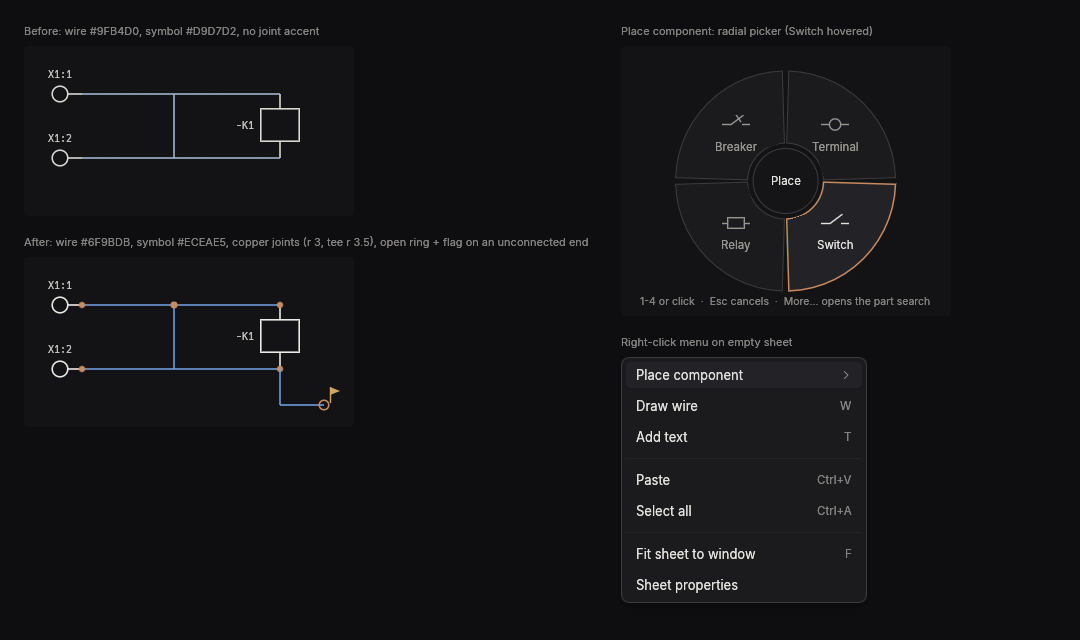
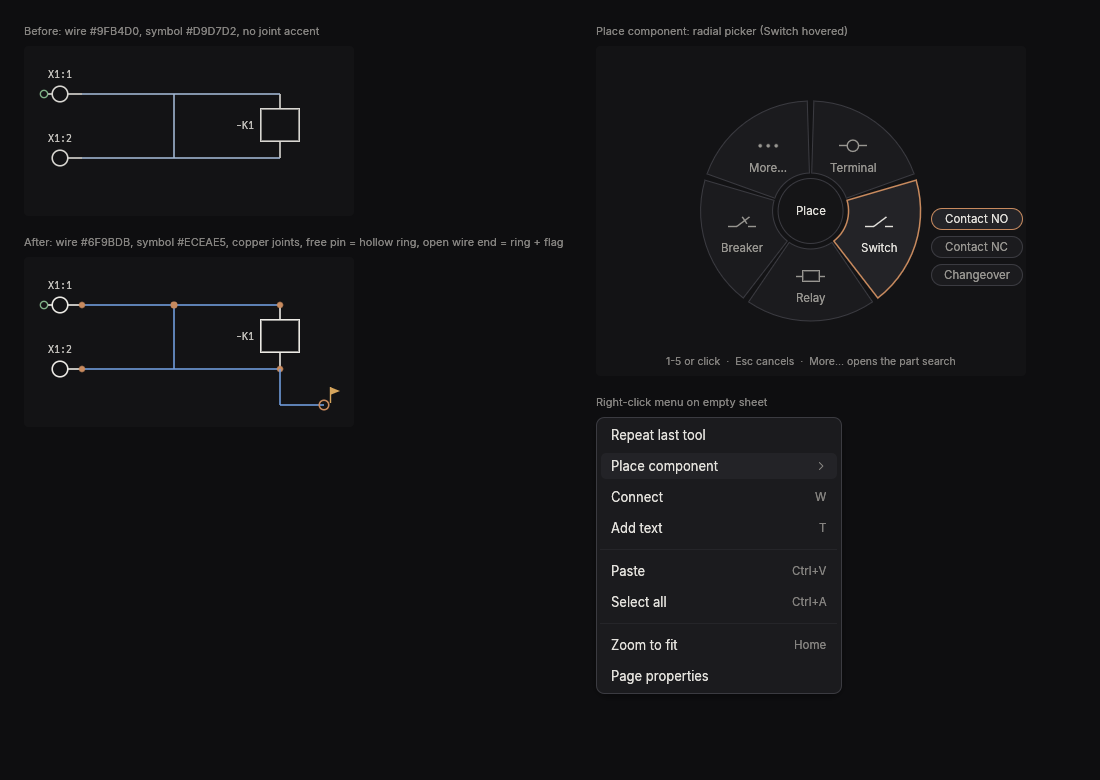
Design: canvas mock-up with five-wedge wheel, outer ring, pins and empty-canvas menu
Claude-Session: https://claude.ai/code/session_01UXbCeQW22y6tv74F2Xvbvm

diff --git a/docs/design/ui-guidelines.md b/docs/design/ui-guidelines.md
@@ -118,13 +118,19 @@ Links and wire ends (`docs/design/canvas-feedback.png`): wires are a mid
 saturated blue `#6F9BDB` and symbols near white `#ECEAE5`, at least 2:1
 apart, so a wire never merges into a terminal outline. A filled copper
 joint dot (`junction`, radius 3 px at 100% zoom, 3.5 px on a tee) marks
-every place a wire meets a pin or another wire. A wire ended by double
+every place a wire meets a pin or another wire; a free pin is a hollow ring
+(open-connection green) and a connected pin a filled dot. Joints are not
+marks (marks are proposals, problems, overrides and changes), and the
+selection never relies on colour alone: it is also 2.5 px thicker with a
+halo, and joints are fixed-size dots, so a selected net stays unmistakable
+without colour vision. A wire ended by double
 click gets an open copper ring (`wire_end`, radius 4 px, 1.6 px line) and
 a small amber flag (`unconnected_flag`, 16 px pole, 10 px pennant) with
 the tooltip "Unconnected". Hollow means open, filled means joined. The
 selection stays the brighter copper with a halo, so a selected net is still
-told apart from its joints. The radial place picker (four wedges,
-inner radius 38, outer 110, hovered wedge copper outline) and the
+told apart from its joints. The radial place picker (five wedges: Terminal,
+Switch, Relay, Breaker, More...; inner radius 38, outer 110, hovered wedge
+copper outline, its items as pills on an outer ring) and the
 right-click menu (26 px rows, 236 px wide, shortcut right-aligned) are in
 the same mock-up; behaviour is Workflow's spec.
 
